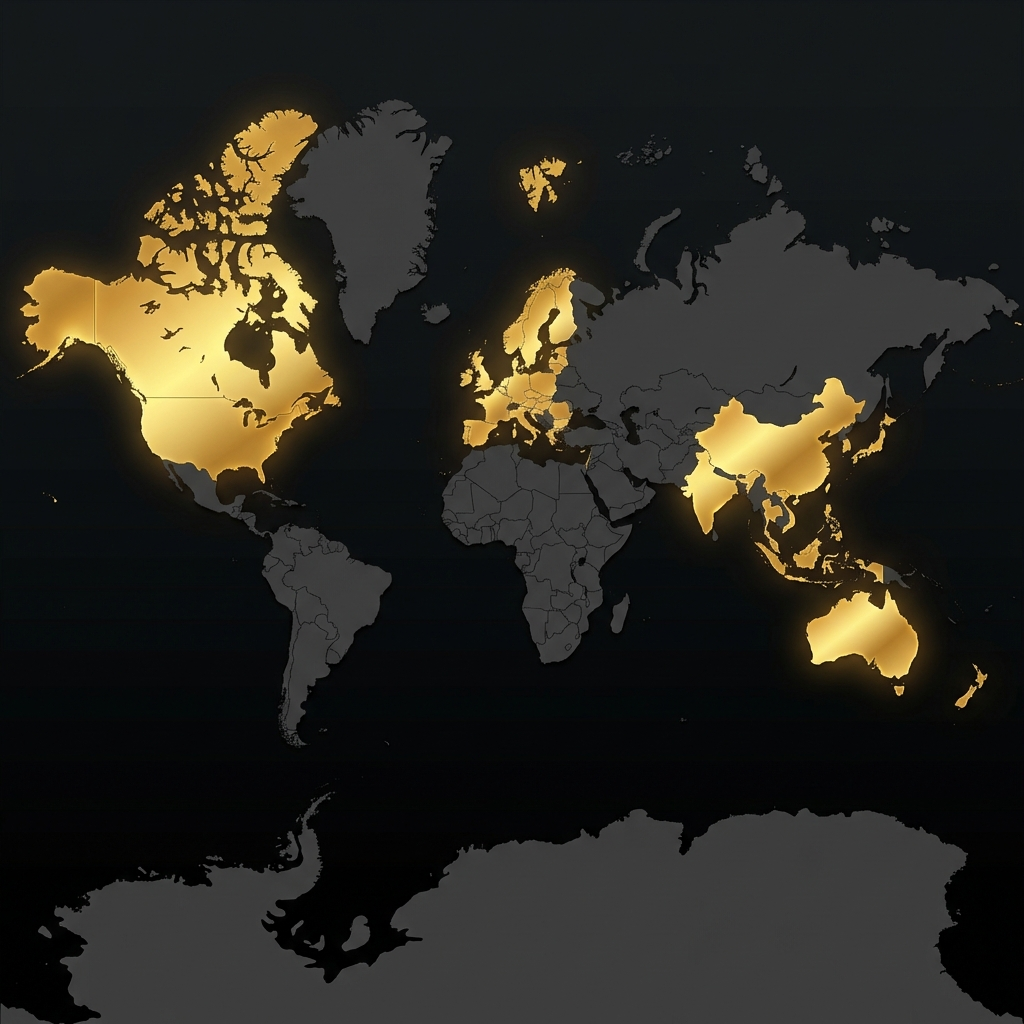
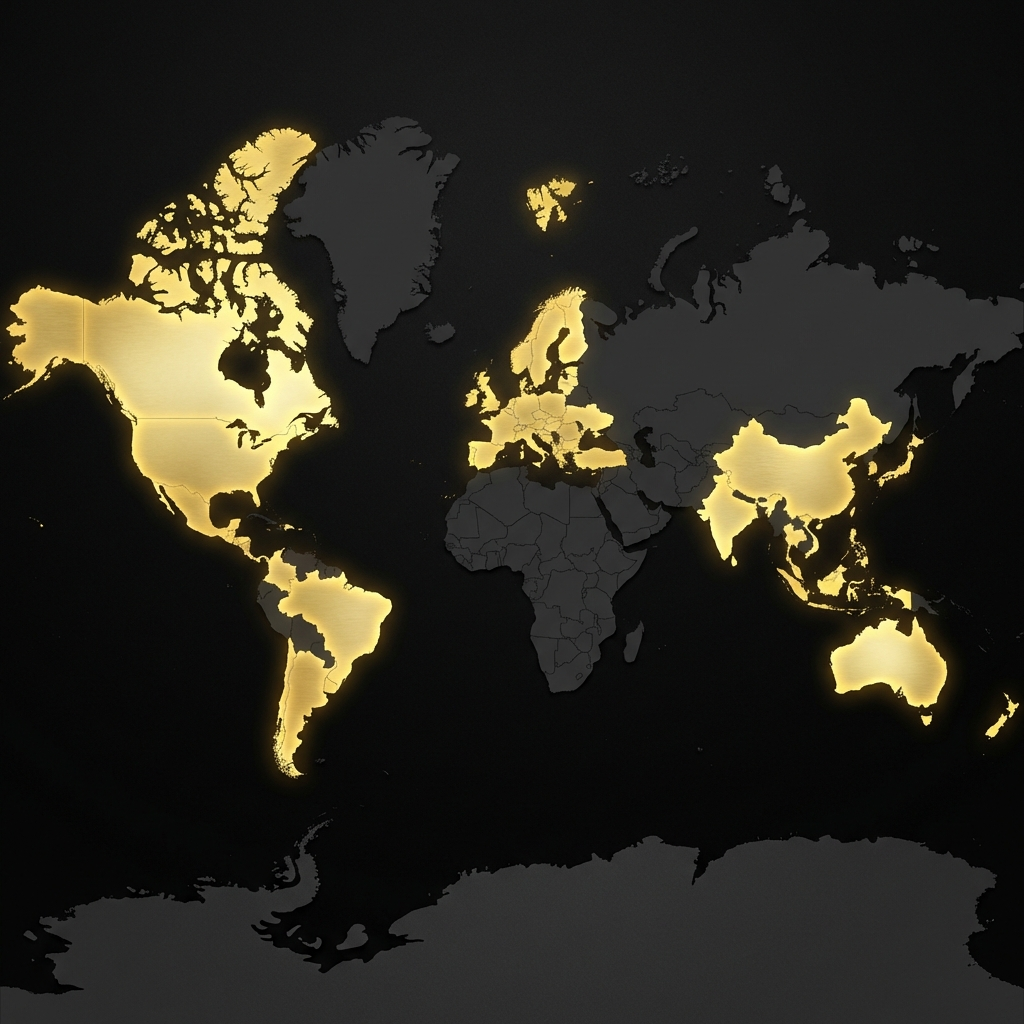
Update map (No Antarctica, Gold LatAm) and fix pin positions

diff --git a/css/company.css b/css/company.css
@@ -167,21 +167,21 @@
 }
 
 .pin-prague {
-    top: 27%;
-    left: 52.5%;
+    top: 38%;
+    left: 51%;
     background: #0099ff;
     box-shadow: 0 0 20px #0099ff;
 }
 
 .pin-lund {
-    top: 22%;
-    left: 51.5%;
+    top: 32%;
+    left: 50.5%;
     background: #ffcc00;
     box-shadow: 0 0 20px #ffcc00;
 }
 
 .pin-boston {
-    top: 31%;
+    top: 42%;
     left: 27.5%;
     background: #ffcc00;
     box-shadow: 0 0 20px #ffcc00;
